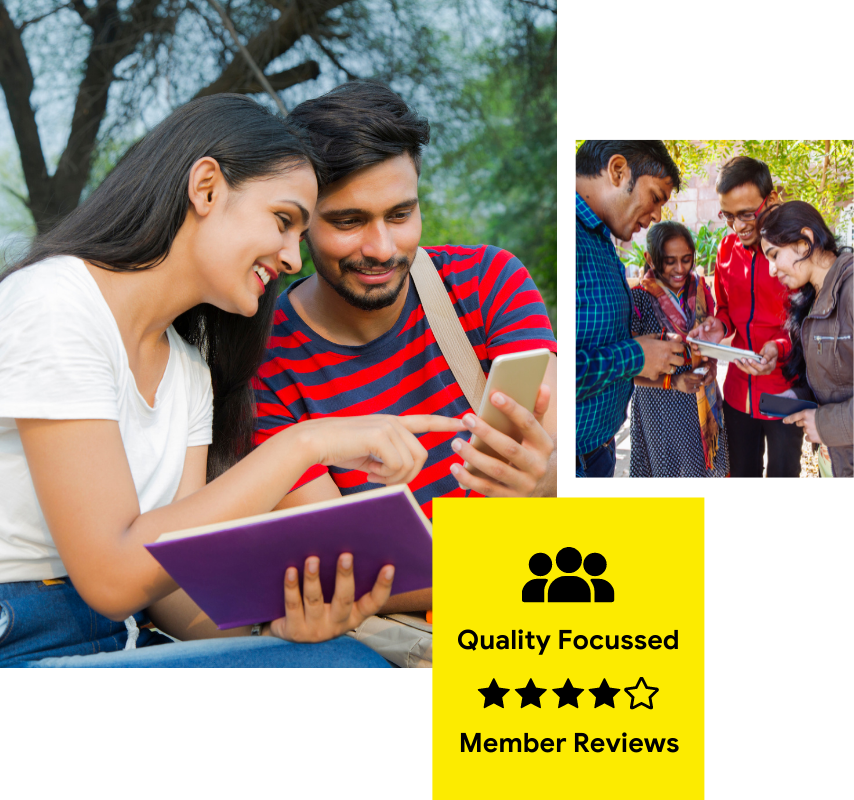
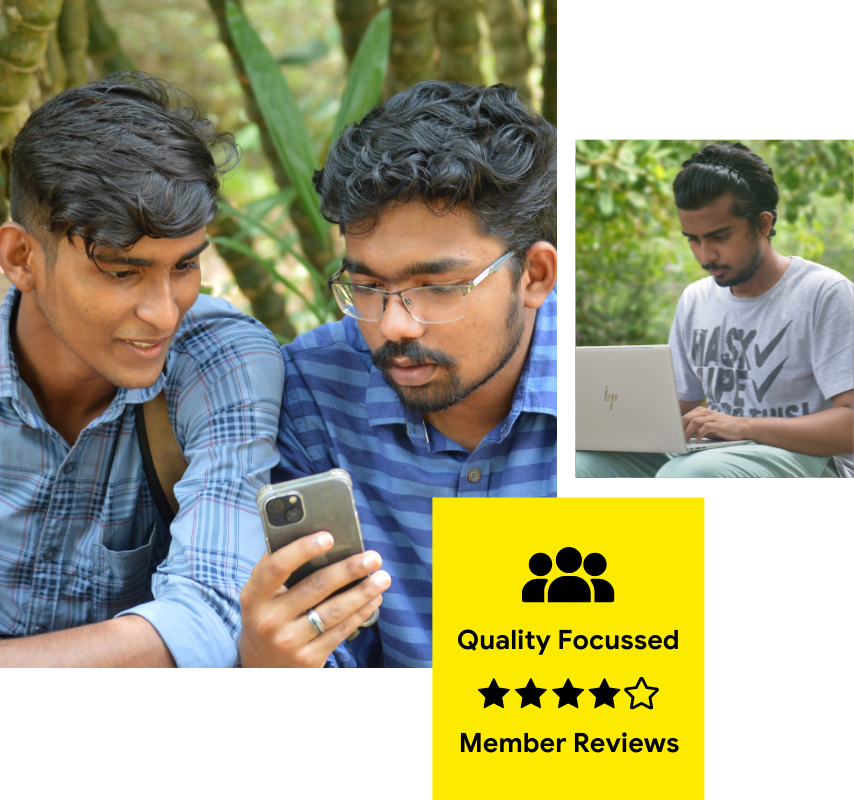
Rendered updated images and hyperlinks

diff --git a/leadership.html b/leadership.html
@@ -1,9 +1,8 @@
-<!doctype html>
+<!doctype html>
 <html lang="en">
 <head>
 <meta charset="utf-8">
 <meta name="viewport" content="width=device-width, initial-scale=1, shrink-to-fit=no">
-<meta name="viewport" content="width=device-width, initial-scale=1, minimum-scale=1,maximum-scale=1, user-scalable=0">
 <meta name="theme-color" content="#feed01"/>
 <title>Leadership | Workspace</title>
 <meta name="author" content="workspace">
@@ -80,8 +79,8 @@
     <div class="show-mobile">
       <div class="languages">
         <ul>
-          <li><a onclick="changeLanguageBack()" href="#">en</a></li>
-          <li><a onclick="changeLanguageByButtonClick()" href="#" >hn</a></li>
+          <li><a href="#">en</a></li>
+          <li><a href="#">hn</a></li>
         </ul>
       </div>
       <!-- end languages -->
@@ -113,14 +112,12 @@
     <!-- end logo -->
     <div class="languages">
       <ul>
-        <li><a onclick="changeLanguageBack()" href="#">en</a></li>
-        <li><a onclick="changeLanguageByButtonClick()" href="#" >hn</a></li>
+        <li><a href="#">en</a></li>
+        <li><a href="#">hn</a></li>
       </ul>
     </div>
     <!-- end languages -->
     <div class="site-menu">
-   <div id="google_translate_element" style="display:none"></div>
-
       <ul>
         <li><a href="index.html">Workspace</a>
           <ul>
@@ -144,8 +141,7 @@
       <div id="cross"> <span></span> <span></span> </div>
     </div>
     <!-- end hamburher --> 
-    <a data-options='{"touch" : false}' href="#sales-specialist-form" class="navbar-button" data-fancybox><i class="lni lni-user"></i> <span>BECOME A MEMBER</span></a> </div>
-
+    <a href="#sales-specialist-form" class="navbar-button" data-fancybox><i class="lni lni-mobile"></i> <span>BECOME A MEMBER</span></a> </div>
   <!-- end container --> 
 </nav>
 <!-- end navbar -->
@@ -177,7 +173,7 @@
     <div class="row">
       <div class="col-lg-3 col-md-6">
         <div class="sales-team">
-          <figure><img src="images/team01.jpg" alt="Image"></figure>
+          <figure><img src="images/team06.jpg" alt="Image"></figure>
           <div class="infos">
             <h6>Arjun GS</h6>
             <small>Web Development Manager</small> <b>Engineering Unit</b>
@@ -194,7 +190,7 @@
       <!-- end col -->
       <div class="col-lg-3 col-md-6">
         <div class="sales-team">
-          <figure><img src="images/team02.jpg" alt="Image"></figure>
+          <figure><img src="images/team07.jpg" alt="Image"></figure>
           <div class="infos">
             <h6>Thasnim Nissar Ali</h6>
             <small>Mobile Development Manager</small> <b>Engineering Unit</b>
@@ -211,7 +207,7 @@
       <!-- end col -->
       <div class="col-lg-3 col-md-6">
         <div class="sales-team">
-          <figure><img src="images/team03.jpg" alt="Image"></figure>
+          <figure><img src="images/team08.jpg" alt="Image"></figure>
           <div class="infos">
             <h6>A Harigovind</h6>
             <small>Data Science Manager</small> <b>Engineering Unit</b>
@@ -228,7 +224,7 @@
       <!-- end col -->
       <div class="col-lg-3 col-md-6">
         <div class="sales-team">
-          <figure><img src="images/team04.jpg" alt="Image"></figure>
+          <figure><img src="images/team09.jpg" alt="Image"></figure>
           <div class="infos">
             <h6>Alfin Abu</h6>
             <small>Mixed Reality Manager</small> <b>Engineering Unit</b>
@@ -245,7 +241,7 @@
       <!-- end col -->
       <div class="col-lg-3 col-md-6">
         <div class="sales-team">
-          <figure><img src="images/team05.jpg" alt="Image"></figure>
+          <figure><img src="images/team10.jpg" alt="Image"></figure>
           <div class="infos">
             <h6>Shakeel Nooh M</h6>
             <small>Low Code Manaager</small> <b>Research & Development Unit</b>
@@ -262,7 +258,7 @@
       <!-- end col --> 
 		<div class="col-lg-3 col-md-6">
         <div class="sales-team">
-          <figure><img src="images/team06.jpg" alt="Image"></figure>
+          <figure><img src="images/team11.jpg" alt="Image"></figure>
           <div class="infos">
             <h6>Sreehari G Krishnan</h6>
             <small>Innovation Manager</small> <b>Research & Development Unit</b>
@@ -279,7 +275,7 @@
       <!-- end col --> 
 		<div class="col-lg-3 col-md-6">
         <div class="sales-team">
-          <figure><img src="images/team07.jpg" alt="Image"></figure>
+          <figure><img src="images/team12.jpg" alt="Image"></figure>
           <div class="infos">
             <h6>Akash JJ</h6>
             <small>Product Testing  Manager</small> <b>Research & Development Unit</b>
@@ -296,7 +292,7 @@
       <!-- end col --> 
 		<div class="col-lg-3 col-md-6">
         <div class="sales-team">
-          <figure><img src="images/team08.jpg" alt="Image"></figure>
+          <figure><img src="images/team13.jpg" alt="Image"></figure>
           <div class="infos">
             <h6>Amritha VR</h6>
             <small>UI/UX Manager</small> <b>Research & Development Unit</b>
@@ -316,7 +312,7 @@
     <div class="row">
       <div class="col-lg-3 col-md-6">
         <div class="sales-team">
-          <figure><img src="images/team01.jpg" alt="Image"></figure>
+          <figure><img src="images/team14.jpg" alt="Image"></figure>
           <div class="infos">
             <h6>Devaprabha Rajesh</h6>
             <small>Content Manager</small> <b>Operations Unit</b>
@@ -333,7 +329,7 @@
       <!-- end col -->
       <div class="col-lg-3 col-md-6">
         <div class="sales-team">
-          <figure><img src="images/team02.jpg" alt="Image"></figure>
+          <figure><img src="images/team15.jpg" alt="Image"></figure>
           <div class="infos">
             <h6>Malavika Sreekumar</h6>
             <small>Outreah Manager</small> <b>Operations Unit</b>
@@ -350,7 +346,7 @@
       <!-- end col -->
       <div class="col-lg-3 col-md-6">
         <div class="sales-team">
-          <figure><img src="images/team03.jpg" alt="Image"></figure>
+          <figure><img src="images/team16.jpg" alt="Image"></figure>
           <div class="infos">
             <h6>Abhinav Nair</h6>
             <small>Talent Outsorcing Manager</small> <b>Operations Unit</b>
@@ -367,9 +363,9 @@
       <!-- end col -->
       <div class="col-lg-3 col-md-6">
         <div class="sales-team">
-          <figure><img src="images/team04.jpg" alt="Image"></figure>
+          <figure><img src="images/team17.jpg" alt="Image"></figure>
           <div class="infos">
-            <h6>Namesless Wonder</h6>
+            <h6>Nandana Prasanth</h6>
             <small>Social Media Manager</small> <b>Operations Unit</b>
             <ul>
               <li><a href="#"><i class="lni lni-facebook-filled"></i></a></li>
@@ -386,7 +382,7 @@
    <div class="row">
       <div class="col-lg-3 col-md-6">
         <div class="sales-team">
-          <figure><img src="images/team01.jpg" alt="Image"></figure>
+          <figure><img src="images/team18.jpg" alt="Image"></figure>
           <div class="infos">
             <h6>Thomas Johnson</h6>
             <small>Meme Artist</small> <b>Design Unit</b>
@@ -403,7 +399,7 @@
       <!-- end col -->
       <div class="col-lg-3 col-md-6">
         <div class="sales-team">
-          <figure><img src="images/team02.jpg" alt="Image"></figure>
+          <figure><img src="images/team19.jpg" alt="Image"></figure>
           <div class="infos">
             <h6>Amaze Al Harris</h6>
             <small>Motion Graphics Manager</small> <b>Design Unit</b>
@@ -420,7 +416,7 @@
       <!-- end col -->
       <div class="col-lg-3 col-md-6">
         <div class="sales-team">
-          <figure><img src="images/team03.jpg" alt="Image"></figure>
+          <figure><img src="images/team20.jpg" alt="Image"></figure>
           <div class="infos">
             <h6>Mrithul Krishna</h6>
             <small>Multimedia Manager</small> <b>Design Unit</b>
@@ -437,7 +433,7 @@
       <!-- end col -->
       <div class="col-lg-3 col-md-6">
         <div class="sales-team">
-          <figure><img src="images/team04.jpg" alt="Image"></figure>
+          <figure><img src="images/team21.jpg" alt="Image"></figure>
           <div class="infos">
             <h6>Joshua George</h6>
             <small>Digital Photographer</small> <b>Design Unit</b>
@@ -461,7 +457,7 @@
 				<div class="cta-box-yellow">
 					<h4>We are always Looking for the Best Brains to Join Us!</h4>
           <p align="justify">Being a part of Workspace gives you an invitation to express yourself and digest in a collaborative space. Workspace offers leadership opportunities to exceptional students from undergraduate, and graduate studies, majorly fixating on&nbsp the fields of&nbsp Technical Development, and Program Management</p>
-          <a href="#" class="button">SHARE YOUR INTEREST</a>
+          <a href="https://forms.office.com/r/Thjgz4TK8J" class="button">SHARE YOUR INTEREST</a>
           </div>
 					<!-- end cta-box-yellow -->
 				</div>
@@ -605,7 +601,7 @@
         <p>Golden Jubillee Complex - UCEK<br>
         University of Kerala - Trivandrum</p>
         <p>(+91) 944 729 4841, (+91) 701 298 1448</p>
-        <a href="https://www.google.com/maps/search/?api=1&query=university+college+of+engineering+kariavattom" data-fancybox data-width="640" data-height="360">FIND US ON MAP</a>
+        <a href="https://www.google.com/maps/search/?api=1&query=centurylink+field" data-fancybox data-width="640" data-height="360">FIND US ON MAP</a>
         </address>
       </div>
       <!-- end col-4 -->
@@ -615,17 +611,16 @@
         <p>Golden Jubillee Complex - UCEK<br>
         University of Kerala - Trivandrum</p>
         <p>(+91) 944 729 4841, (+91) 701 298 1448</p>
-        <a href="https://www.google.com/maps/search/?api=1&query=university+college+of+engineering+kariavattom" data-fancybox data-width="640" data-height="360">FIND US ON MAP</a>
+        <a href="https://www.google.com/maps/search/?api=1&query=centurylink+field" data-fancybox data-width="640" data-height="360">FIND US ON MAP</a>
         </address>
       </div>
       <!-- end col-4 -->
       <div class="col-lg-4">
         <h6 class="widget-title">NEWSLETTER</h6>
         <p>Sign up for latest developer news from WKSP</p>
-        <form id="g-form_1" onsubmit="document.getElementById('formSubmit_1').disabled=true;
-        document.getElementById('formSubmit_1').value='Submitting, please wait...';">
+        <form>
           <input type="email" placeholder="Enter your e-mail">
-          <input id="formSubmit_1" type="submit" value="SIGN UP">
+          <input type="submit" value="SIGN UP">
         </form>
       </div>
       <!-- end col-4 -->
@@ -649,8 +644,7 @@
 </footer>
 <!-- end footer -->
 <div id="sales-specialist-form">
-  <form id="g-form" onsubmit="document.getElementById('formSubmit').disabled=true;
-  document.getElementById('formSubmit').value='Submitting, please wait...';">
+  <form>
     <div class="form-group"> <span>Full Name</span>
       <input type="text">
     </div>
@@ -664,7 +658,7 @@
     </div>
     <!-- end form-group -->
     <div class="form-group">
-      <input id="formSubmit"  type="submit" value="BECOME A MEMBER">
+      <input type="submit" value="BECOME A MEMBER">
     </div>
     <!-- end form-group -->
   </form>
@@ -672,14 +666,12 @@
 <!-- end sales-specialist-form --> 
 
 <!-- JS FILES --> 
-<script src="./js/ajax.js"></script>
 <script src="js/jquery.min.js"></script> 
 <script src="js/bootstrap.min.js"></script> 
 <script src="js/swiper.min.js"></script> 
 <script src="js/fancybox.min.js"></script> 
 <script src="js/odometer.min.js"></script> 
 <script src="js/isotope.min.js"></script> 
-<script src="js/translate.js"></script>
 <script src="js/scripts.js"></script>
 </body>
 </html>

diff --git a/services.html b/services.html
@@ -1,4 +1,4 @@
-<!doctype html>
+<!doctype html>
 <html lang="en">
 <head>
 <meta charset="utf-8">
@@ -202,7 +202,7 @@
           <h4>Education<br>For Everyone</h4>
           <p align="justify">Learning skills is vital for students as the changing technology landscape continues to develop and change the world. This is why it's important to learn how to use tools that not only allow you to express your creativity but also build valuable knowledge and modes of thinking when designing applications, websites and other services</p>
           <p align="justify">Workspace is the largest student community at UCEK, University of Kerala. We offer core team opportunities for freshers & sophomore. All educational affairs, and forums organized by&nbsp us are conducted&nbsp free of cost&nbsp for everyone</p>
-          <a href="#" class="button">REGISTER FOR EVENTS</a> </div>
+          <a href="https://skillenza.com/communities/workspace" class="button">REGISTER FOR EVENTS</a> </div>
         <!-- end services-list-box --> 
       </div>
       <!-- end col-6 --> 
